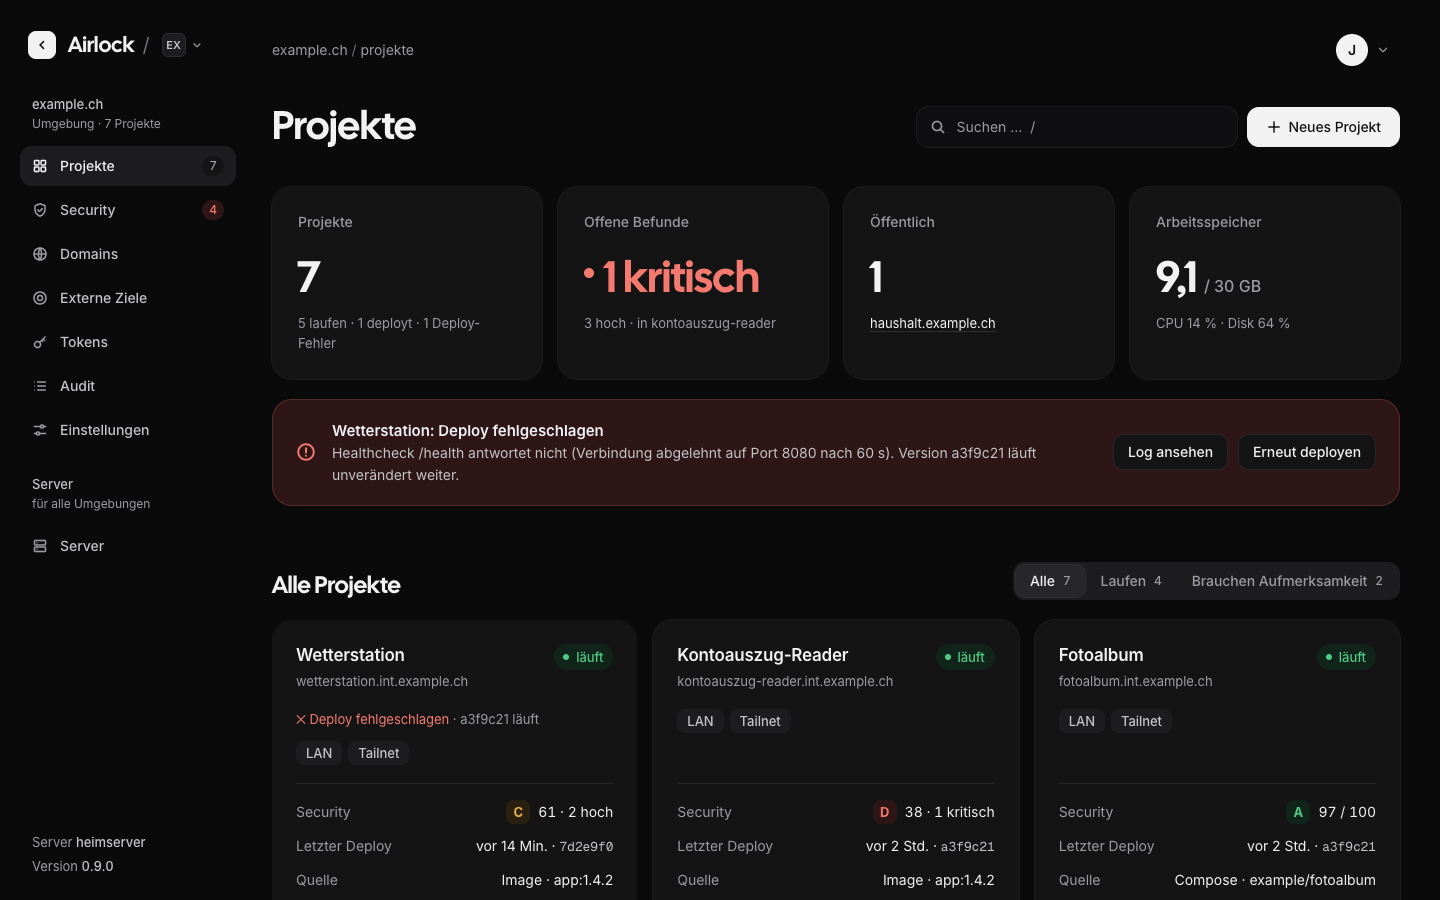
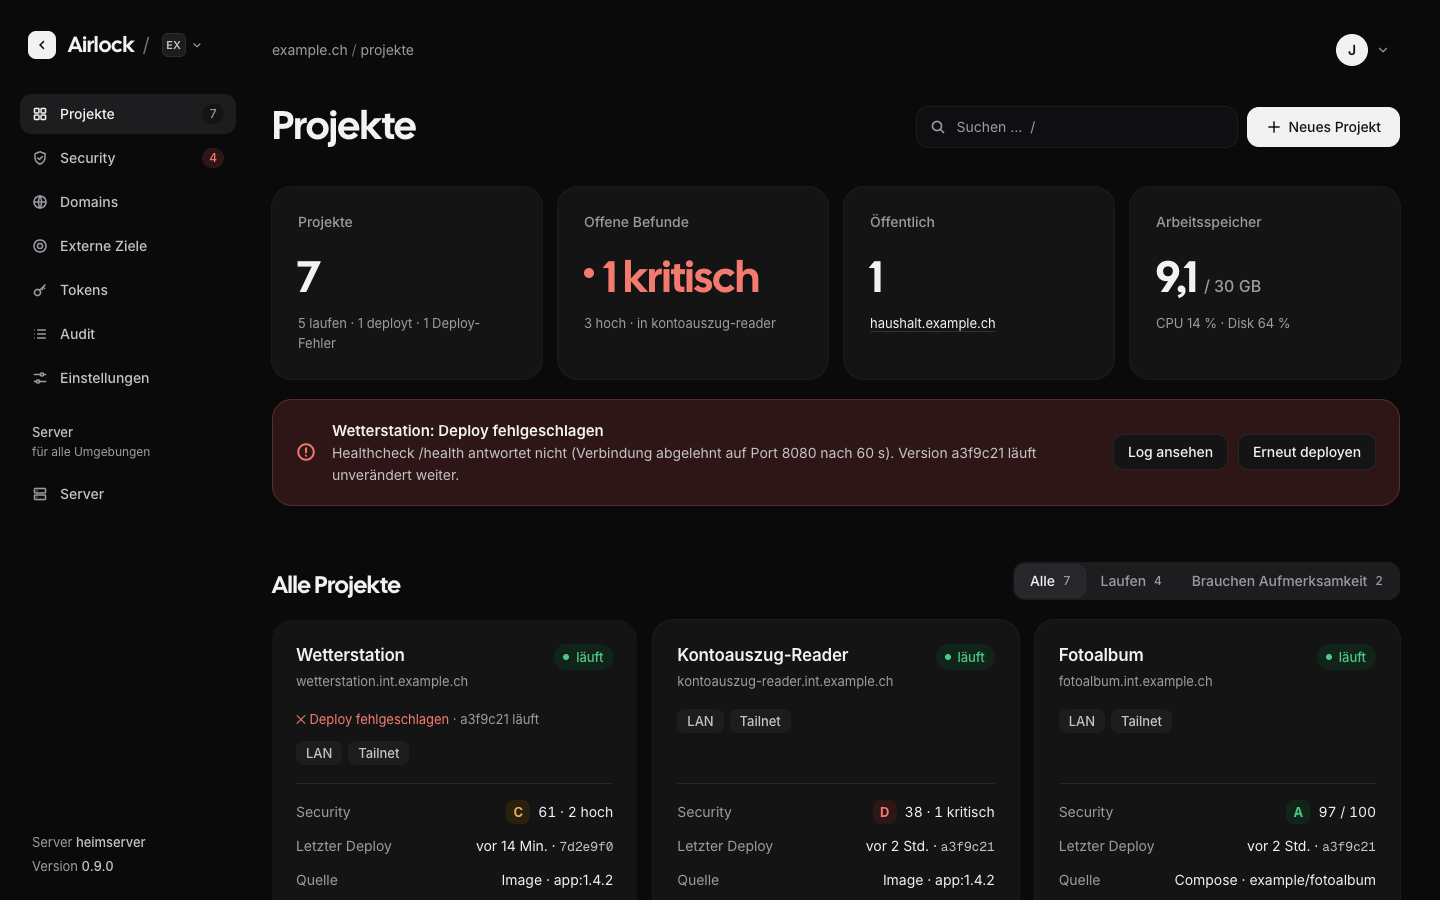
Prototyp Umgebungen: kein zweiter Umgebungs-Block in der Seitenleiste (steht schon im Umschalter)

diff --git a/packages/web/design-shots/umgebungen.ts b/packages/web/design-shots/umgebungen.ts
@@ -85,7 +85,7 @@ export async function railWithEnvironments(page: Page, opts: { open?: boolean } 
 
     const nav = document.querySelector<HTMLElement>('.rail-nav')!
     nav.setAttribute('aria-label', `Umgebung ${cur.name}`)
-    nav.insertAdjacentHTML('afterbegin', `<div class="rail-group"><strong>${cur.name}</strong>Umgebung · ${cur.projects} Projekte</div>`)
+    // Kein zweiter Umgebungs-Block über der Navigation: die Umgebung steht schon im Umschalter neben dem Logo
     const system = nav.querySelector<HTMLAnchorElement>('a[href="/system"]')!
     const server = system.cloneNode(true) as HTMLAnchorElement
     server.classList.remove('active')
